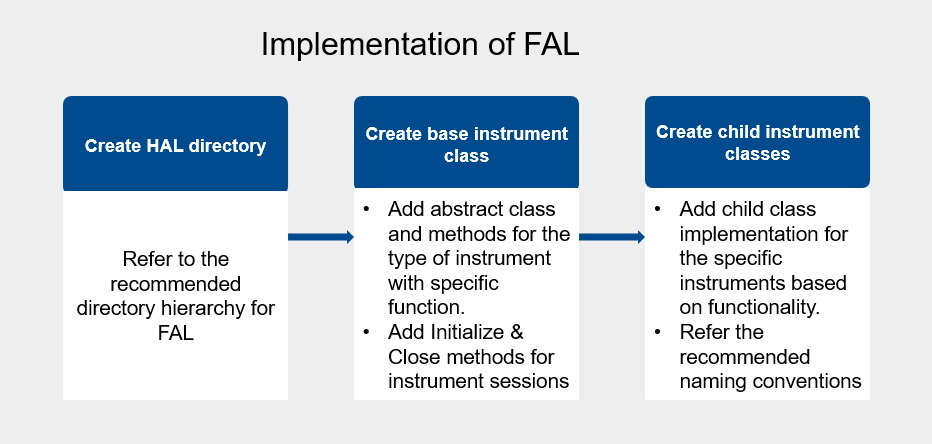
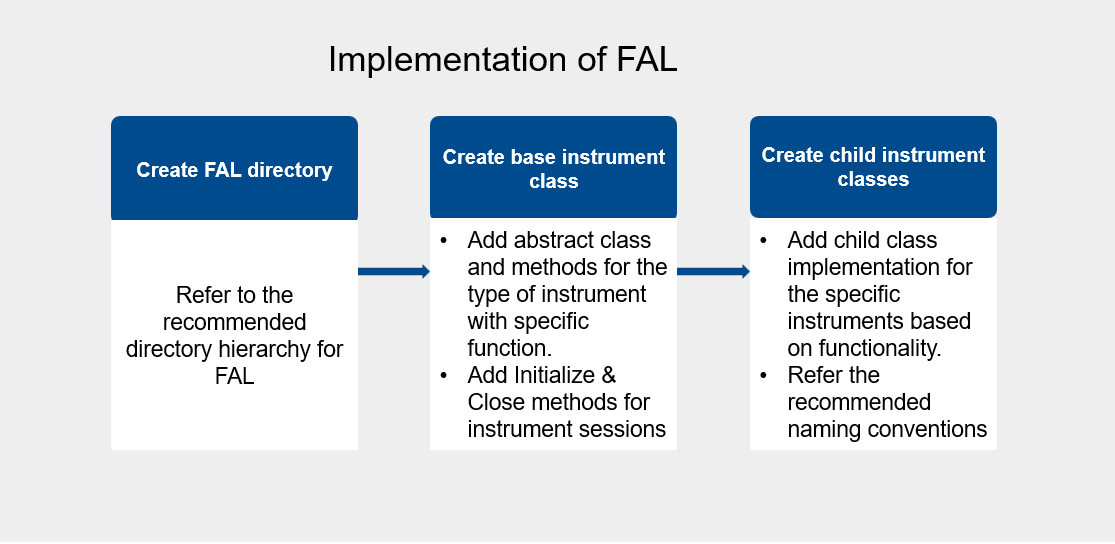
docs: update self review comments

diff --git a/docs/FAL in Measurement Plug-In.md b/docs/FAL in Measurement Plug-In.md
@@ -21,8 +21,7 @@ hardware, allowing software components to interact with each other through well-
 
 ## Steps to implement FAL for another instrument function
 
-1. To implement FAL for a specific instrument type, create a directory to hold the modules related
-   to the FAL implementation.
+1. To implement FAL for a specific instrument type, create a directory to hold the modules related to the FAL implementation.
 2. Create a Python file with a generic name that does not specify the type of instrument.
    Example: session_helper.py.
 3. This module contains an initialize method which will reserve and initialize the respective
@@ -95,9 +94,9 @@ Example:
 ## Migrate the existing instrument class to Measurement Plug-In
 
 - Create a measurement plug-in by following the steps mentioned in
-  [Developing a measurement plug-in with python](https://github.com/ni/measurement-plugin-python?tab=readme-ov-file#developing-measurements-quick-start).
+  [Developing a measurement plug-in with python](https://github.com/ni/measurement-plugin-python?tab=readme-ov-file#developing-measurements-quick-start) or migrate your existing measurement into measurement plug-in by following the steps mentioned in [Migrating a measurement to Plug-In](https://github.com/ni/measurement-plugin-converter-python/tree/main/src/converter).
 - Copy the existing FAL classes and modules by following the steps from [Steps to create a new FAL based measurement](#steps-to-implement-fal-for-another-instrument-function) to migrate the existing FAL implementation.
-- Update the `measurement.py` with the HAL modules and run the measurement.
+- Update the `measurement.py` with the FAL modules and run the measurement.
 ![Measurement Plug-in Workflow](Measurement%20with%20FAL%20workflow.png)
 
 > [!Note]
@@ -114,6 +113,4 @@ Example:
    NI-DAQmx | nidaqmx
    NI-SWITCH | nirelaydriver
 
-> The instrument type id for custom instruments should be a single word, adhering to Python standards.
-   Accordingly, the directories for the instrument models should also be in lowercase. Example:
-   [`keysightdmm`](../source/measurements/source_measure_dc_voltage_fal/fal/keysightdmm/keysightdmm.py).
+> The instrument type id for custom instruments should be a single word, adhering to Python standards. Accordingly, the directories for the instrument models should also be in lowercase. Example: [`keysightdmm`](../source/measurements/source_measure_dc_voltage_fal/fal/keysightdmm/keysightdmm.py).

diff --git a/docs/HAL in Measurement Plug-In.md b/docs/HAL in Measurement Plug-In.md
@@ -80,7 +80,7 @@ dmm_hal
 ## Migrate the existing instrument class to Measurement Plug-In
 
 - Create a measurement plug-in by following the steps mentioned in
-  [Developing a measurement plug-in with python](https://github.com/ni/measurement-plugin-python?tab=readme-ov-file#developing-measurements-quick-start).
+  [Developing a measurement plug-in with python](https://github.com/ni/measurement-plugin-python?tab=readme-ov-file#developing-measurements-quick-start) or migrate your existing measurement into measurement plug-in by following the steps mentioned in [Migrating a measurement to Plug-In](https://github.com/ni/measurement-plugin-converter-python/tree/main/src/converter).
 - Copy the existing HAL classes and modules by following the steps from [Steps to create a new HAL based measurement](#steps-to-implement-hal-for-a-new-instrument-type) to migrate the existing HAL implementation.
 - Update the `measurement.py` with the HAL modules and run the measurement.
 ![Measurement Plug-in Workflow](Measurement%20with%20HAL%20workflow.png)
@@ -99,6 +99,4 @@ dmm_hal
    NI-DAQmx | nidaqmx
    NI-SWITCH | nirelaydriver
 
-> The instrument type id for custom instruments should be a single word, adhering to Python standards.
-   Accordingly, the directories for the instrument models should also be in lowercase. Example:
-   [`keysightdmm`](../source/measurements/dmm_measurement_hal/dmm_hal/keysightdmm/keysightdmm.py).
+> The instrument type id for custom instruments should be a single word, adhering to Python standards. Accordingly, the directories for the instrument models should also be in lowercase. Example: [`keysightdmm`](../source/measurements/dmm_measurement_hal/dmm_hal/keysightdmm/keysightdmm.py).
